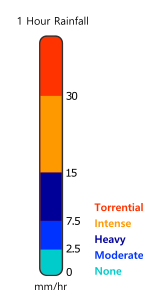
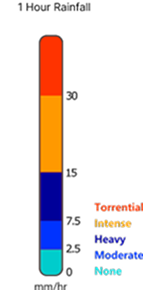
feat(contour): added contour maps in the weather update (#477)
* Added github actions workflow for aut deployment to .72 server.

* Added github action for S3 deployment.

* Changed to staging. Created branch for staging.

* Retrigger deployment workflow.

* fix(studio): zoom in on ios (#192)

# Summary 

- Fixes https://github.com/UPRI-NOAH/noah-frontend/issues/186
- The `load` event isn't firing on NOAH Studio. As such, the `centerListener()` method isn't called which is responsible for the zooming in to the selected place. However, `style.load` do get called. The fix implemented here is to also use the event `style.load` to call the methods that were previously called by upon the firing of the `load` event but only listen to `style.load` once.
  - We need to further investigate **why** `load` doesn't work on Studio in iOS but works in KYH
- Confirming that only the NOAH Studio is affected by this issue.
 
# Demo

![Kapture 2021-10-05 at 22 49 45](https://user-images.githubusercontent.com/11599005/136047077-d0da7a85-9157-4d01-bae9-07a6039fd9c1.gif)

* ci(netlify): add _redirects file

* S3 Deployment Validation (#198)

* Added if condition to run workflow only on successful PR merge. (#195)

* Checking proper automation workflow. Will revert this small change upon validation. (#196)

* Change deployment trigger. Revert small biblio change. (#199)

* Checking proper automation workflow. Will revert this small change upon validation.

* Changed trigger for deployment workflow. Revert small change to bibliography.
[…]

Changed region(s): [[0.1119, 0.0, 0.6434, 1.0], [0.6434, 0.6828, 1.0, 0.9621]]

diff --git a/src/app/features/noah-playground/components/map-playground/map-playground.component.ts b/src/app/features/noah-playground/components/map-playground/map-playground.component.ts
@@ -325,7 +325,7 @@ export class MapPlaygroundComponent
         this.initVolcanoes();
         this.initBoundaries();
         this.initWeatherSatelliteLayers();
-        //this.showContourMaps();
+        this.showContourMaps();
         this.initQcCenterListener();
         this.initLagunaCenterListener();
         this.initBarangayBoundary();
@@ -4301,97 +4301,109 @@ export class MapPlaygroundComponent
     );
   }
 
-  // showContourMaps() {
-  //   const contourMapImages = {
-  //     '1hr': {
-  //       url: 'https://webgis-static.up.edu.ph/api/contours/1hr_latest_rainfall_contour.png',
-  //       type: 'image',
-  //     },
-  //     '3hr': {
-  //       url: 'https://webgis-static.up.edu.ph/api/contours/3hr_latest_rainfall_contour.png',
-  //       type: 'image',
-  //     },
-  //     '6hr': {
-  //       url: 'https://webgis-static.up.edu.ph/api/contours/6hr_latest_rainfall_contour.png',
-  //       type: 'image',
-  //     },
-  //     '12hr': {
-  //       url: 'https://webgis-static.up.edu.ph/api/contours/12hr_latest_rainfall_contour.png',
-  //       type: 'image',
-  //     },
-  //     '24hr': {
-  //       url: 'https://webgis-static.up.edu.ph/api/contours/24hr_latest_rainfall_contour.png',
-  //       type: 'image',
-  //     },
-  //     '24hr-lapse': {
-  //       url: 'https://webgis-static.up.edu.ph/api/contours/ph_contour.webm',
-  //       type: 'video',
-  //     },
-  //   };
+  showContourMaps() {
+    const contourMapImages = {
+      '1hr': {
+        url: 'https://webgis-static.up.edu.ph/api/contours/1hr_latest_rainfall_contour.png',
+        type: 'image',
+      },
+      '3hr': {
+        url: 'https://webgis-static.up.edu.ph/api/contours/3hr_latest_rainfall_contour.png',
+        type: 'image',
+      },
+      '6hr': {
+        url: 'https://webgis-static.up.edu.ph/api/contours/6hr_latest_rainfall_contour.png',
+        type: 'image',
+      },
+      '12hr': {
+        url: 'https://webgis-static.up.edu.ph/api/contours/12hr_latest_rainfall_contour.png',
+        type: 'image',
+      },
+      '24hr': {
+        url: 'https://webgis-static.up.edu.ph/api/contours/24hr_latest_rainfall_contour.png',
+        type: 'image',
+      },
+      '24hr-lapse': {
+        url: 'https://webgis-static.up.edu.ph/api/contours/ph_contour.webm',
+        type: 'video',
+      },
+    };
 
-  //   const getContourMapSource = (contourMapDetails: {
-  //     url: string;
-  //     type: string;
-  //   }): AnySourceData => {
-  //     switch (contourMapDetails.type) {
-  //       case 'image':
-  //         return {
-  //           type: 'image',
-  //           url: contourMapDetails.url,
-  //           coordinates: [
-  //             [115.35, 21.55], // top-left
-  //             [128.25, 21.55], // top-right
-  //             [128.25, 3.85], // bottom-right
-  //             [115.35, 3.85], // bottom-left
-  //           ],
-  //         };
-  //       case 'video':
-  //         return {
-  //           type: 'video',
-  //           urls: [contourMapDetails.url],
-  //           coordinates: [
-  //             [115.35, 21.55], // top-left
-  //             [128.25, 21.55], // top-right
-  //             [128.25, 3.85], // bottom-right
-  //             [115.35, 3.85], // bottom-left
-  //           ],
-  //         };
-  //       default:
-  //         throw new Error('[MapPlayground] Unable to get contour map source');
-  //     }
-  //   };
+    const getContourMapSource = (contourMapDetails: {
+      url: string;
+      type: string;
+    }): AnySourceData => {
+      switch (contourMapDetails.type) {
+        case 'image':
+          return {
+            type: 'image',
+            url: contourMapDetails.url,
+            coordinates: [
+              [115.35, 21.55], // top-left
+              [128.25, 21.55], // top-right
+              [128.25, 3.85], // bottom-right
+              [115.35, 3.85], // bottom-left
+            ],
+          };
+        case 'video':
+          return {
+            type: 'video',
+            urls: [contourMapDetails.url],
+            coordinates: [
+              [115.35, 21.55], // top-left
+              [128.25, 21.55], // top-right
+              [128.25, 3.85], // bottom-right
+              [115.35, 3.85], // bottom-left
+            ],
+          };
+        default:
+          throw new Error('[MapPlayground] Unable to get contour map source');
+      }
+    };
 
-  //   Object.keys(contourMapImages).forEach((contourType) => {
-  //     const contourMapDetails = contourMapImages[contourType];
+    Object.keys(contourMapImages).forEach((contourType) => {
+      const contourMapDetails = contourMapImages[contourType];
 
-  //     this.map.addSource(contourType, getContourMapSource(contourMapDetails));
+      this.map.addSource(contourType, getContourMapSource(contourMapDetails));
 
-  //     this.map.addLayer({
-  //       id: contourType,
-  //       type: 'raster',
-  //       source: contourType,
-  //       paint: {
-  //         'raster-fade-duration': 0,
-  //         'raster-opacity': 0,
-  //       },
-  //     });
+      this.map.addLayer({
+        id: contourType,
+        type: 'raster',
+        source: contourType,
+        paint: {
+          'raster-fade-duration': 0,
+          'raster-opacity': 0,
+        },
+      });
 
-  //     combineLatest([
-  //       this.pgService.contourMapGroupShown$.pipe(distinctUntilChanged()),
-  //       this.pgService.selectedContourMap$.pipe(distinctUntilChanged()),
-  //     ])
-  //       .pipe(
-  //         takeUntil(this._unsub),
-  //         takeUntil(this._changeStyle),
-  //         map(([groupShown, selectedContourMap]) => {
-  //           return +(groupShown && selectedContourMap === contourType);
-  //         })
-  //       )
-  //       .subscribe((opacity: number) => {
-  //         this.map.setPaintProperty(contourType, 'raster-opacity', opacity);
-  //       });
-  //   });
-  // }
+      const weatherUpdateShown$ = this.pgService.weatherUpdatesGroupShown$.pipe(
+        shareReplay(1)
+      );
+
+      combineLatest([
+        this.pgService.contourMapGroupShown$.pipe(distinctUntilChanged()),
+        this.pgService.selectedContourMap$.pipe(distinctUntilChanged()),
+        this.pgService.contourMapOpacity$.pipe(distinctUntilChanged()),
+        weatherUpdateShown$,
+      ])
+        .pipe(
+          takeUntil(this._unsub),
+          takeUntil(this._changeStyle),
+          map(
+            ([groupShown, selectedContourMap, opacity, weatherUpdateShown]) => {
+              return groupShown &&
+                selectedContourMap === contourType &&
+                weatherUpdateShown
+                ? opacity / 100
+                : 0;
+            }
+          )
+        )
+        .subscribe((opacity: number) => {
+          this.map.setPaintProperty(contourType, 'raster-opacity', opacity);
+        });
+    });
+  }
 
   switchMapStyle(style: MapStyle) {
     if (this.mapStyle === style) return;

diff --git a/src/app/features/noah-playground/components/contour-maps/contour-maps.component.html b/src/app/features/noah-playground/components/contour-maps/contour-maps.component.html
@@ -1,13 +1,13 @@
 <div
   class="
     flex flex-col
-    p-5
+    p-4
     w-full
     bg-sidebar
     shadow-md
     hover:shodow-lg
     rounded-lg
-    mt-6
+    mt-4
   "
 >
   <div
@@ -24,7 +24,7 @@
         />
       </label>
       <div class="flex flex-col ml-3">
-        <div class="text-xl leading-none font-bold">Rainfall Contour</div>
+        <div class="text-base leading-none font-bold">Rainfall Contour</div>
       </div>
     </div>
     <div class="cursor-pointer">
@@ -68,10 +68,10 @@
   </div>
   <div [ngClass]="(expanded$ | async) ? ' pt-5 ' : ' hidden '">
     <hr class="pb-4" />
-    <div class="flex justify-around">
-      <div class="my-auto items-center">
+    <div class="grid grid-cols-2 items-center" style="justify-items: center">
+      <div>
         <!-- CONTOUR MAP SOLO START -->
-        <div class="f-f-r py-2 pl-4" *ngFor="let contourMap of contourMaps">
+        <div class="f-f-r py-2" *ngFor="let contourMap of contourMaps">
           <div class="flex items-center">
             <div class="inline-flex items-center radio">
               <input
@@ -92,13 +92,21 @@
           </div>
         </div>
         <!-- CONTOUR MAP SOLO END -->
-        <hr class="p-2" />
       </div>
       <img
         src="assets/legends/rainfall-contour-legend-{{
           selectedContourMap$ | async
         }}.png"
       />
+    </div>
+    <div class="pb-4 pt-2">
+      <noah-slider
+        label="Opacity"
+        [initialValue]="opacity$ | async"
+        [min]="0"
+        [max]="100"
+        (valueChange)="changeOpacity($event)"
+      ></noah-slider>
     </div>
   </div>
 </div>

diff --git a/src/app/features/noah-playground/components/contour-maps/contour-maps.component.ts b/src/app/features/noah-playground/components/contour-maps/contour-maps.component.ts
@@ -14,6 +14,7 @@ export class ContourMapsComponent implements OnInit {
   expanded$: Observable<boolean>;
   selectedContourMap$: Observable<ContourMapType>;
   shown$: Observable<boolean>;
+  opacity$: Observable<number>;
 
   constructor(private pgService: NoahPlaygroundService) {}
 
@@ -21,6 +22,7 @@ export class ContourMapsComponent implements OnInit {
     this.expanded$ = this.pgService.contourMapGroupExpanded$;
     this.selectedContourMap$ = this.pgService.selectedContourMap$;
     this.shown$ = this.pgService.contourMapGroupShown$;
+    this.opacity$ = this.pgService.contourMapOpacity$;
   }
 
   toggleShown(event: Event) {
@@ -36,5 +38,9 @@ export class ContourMapsComponent implements OnInit {
 
   selectContourMap(type: ContourMapType) {
     this.pgService.selectContourMapType(type);
+  }
+
+  changeOpacity(opacity: number) {
+    this.pgService.setContourMapOpacity(opacity);
   }
 }

diff --git a/src/app/features/noah-playground/services/noah-playground.service.ts b/src/app/features/noah-playground/services/noah-playground.service.ts
@@ -208,6 +208,10 @@ export class NoahPlaygroundService {
     );
   }
 
+  get contourMapOpacity$(): Observable<number> {
+    return this.store.state$.pipe(map((state) => state.contourMaps.opacity));
+  }
+
   get riskAssessmentExpoShown$(): Observable<boolean> {
     return this.store.state$.pipe(
       map((state) => state.riskAssessment.exposuretypes.shown)
@@ -1280,6 +1284,15 @@ export class NoahPlaygroundService {
 
     contourMaps.selectedType = type;
     this.store.patch({ contourMaps }, `select contour map type: ${type}`);
+  }
+
+  setContourMapOpacity(opacity: number): void {
+    const contourMaps = {
+      ...this.store.state.contourMaps,
+    };
+
+    contourMaps.opacity = opacity;
+    this.store.patch({ contourMaps }, `set contour map opacity to ${opacity}`);
   }
 
   toggleContourMapGroupVisibility(): void {

diff --git a/src/app/features/noah-playground/store/noah-playground.store.ts b/src/app/features/noah-playground/store/noah-playground.store.ts
@@ -390,6 +390,7 @@ type NoahPlaygroundState = {
     shown: boolean;
     expanded: boolean;
     selectedType: ContourMapType;
+    opacity: number;
   };
   iotMunicipalities: IotMunicipalitiesState;
   boundaries: BoundariesGroupState;
@@ -649,9 +650,10 @@ const createInitialValue = (): NoahPlaygroundState => ({
     },
   },
   contourMaps: {
-    shown: false,
+    shown: true,
     expanded: false,
     selectedType: '1hr',
+    opacity: 100,
   },
   typhoonTrack: {
     shown: true,

diff --git a/src/app/features/noah-playground/pages/noah-playground/noah-playground.component.html b/src/app/features/noah-playground/pages/noah-playground/noah-playground.component.html
@@ -571,6 +571,8 @@
                 class="w-full"
               ></noah-weather-satellite-playground>
               <noah-typhoon-track-group></noah-typhoon-track-group>
+<!--               <noah-temperature></noah-temperature> -->
+              <noah-contour-maps></noah-contour-maps>
               <noah-lightning-group></noah-lightning-group>
               <noah-wind-group></noah-wind-group>
             </div>
